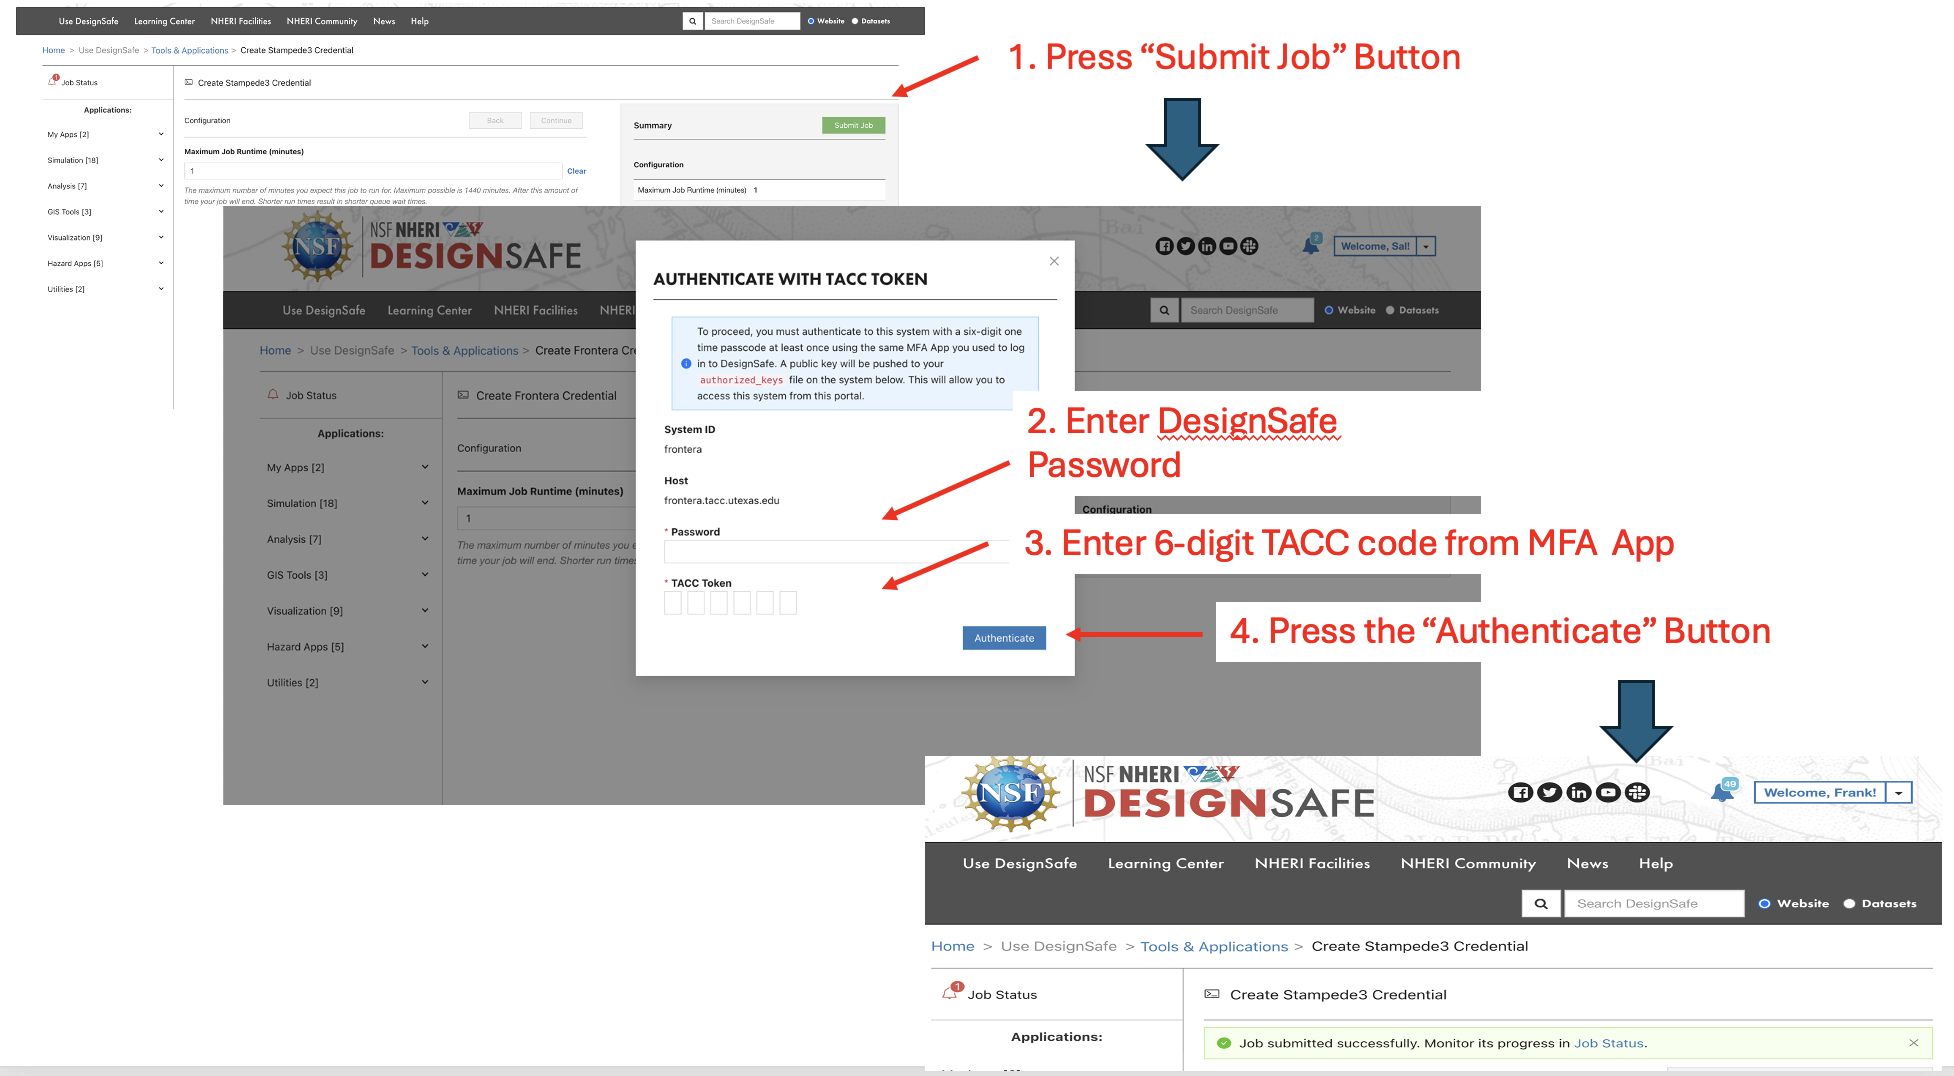
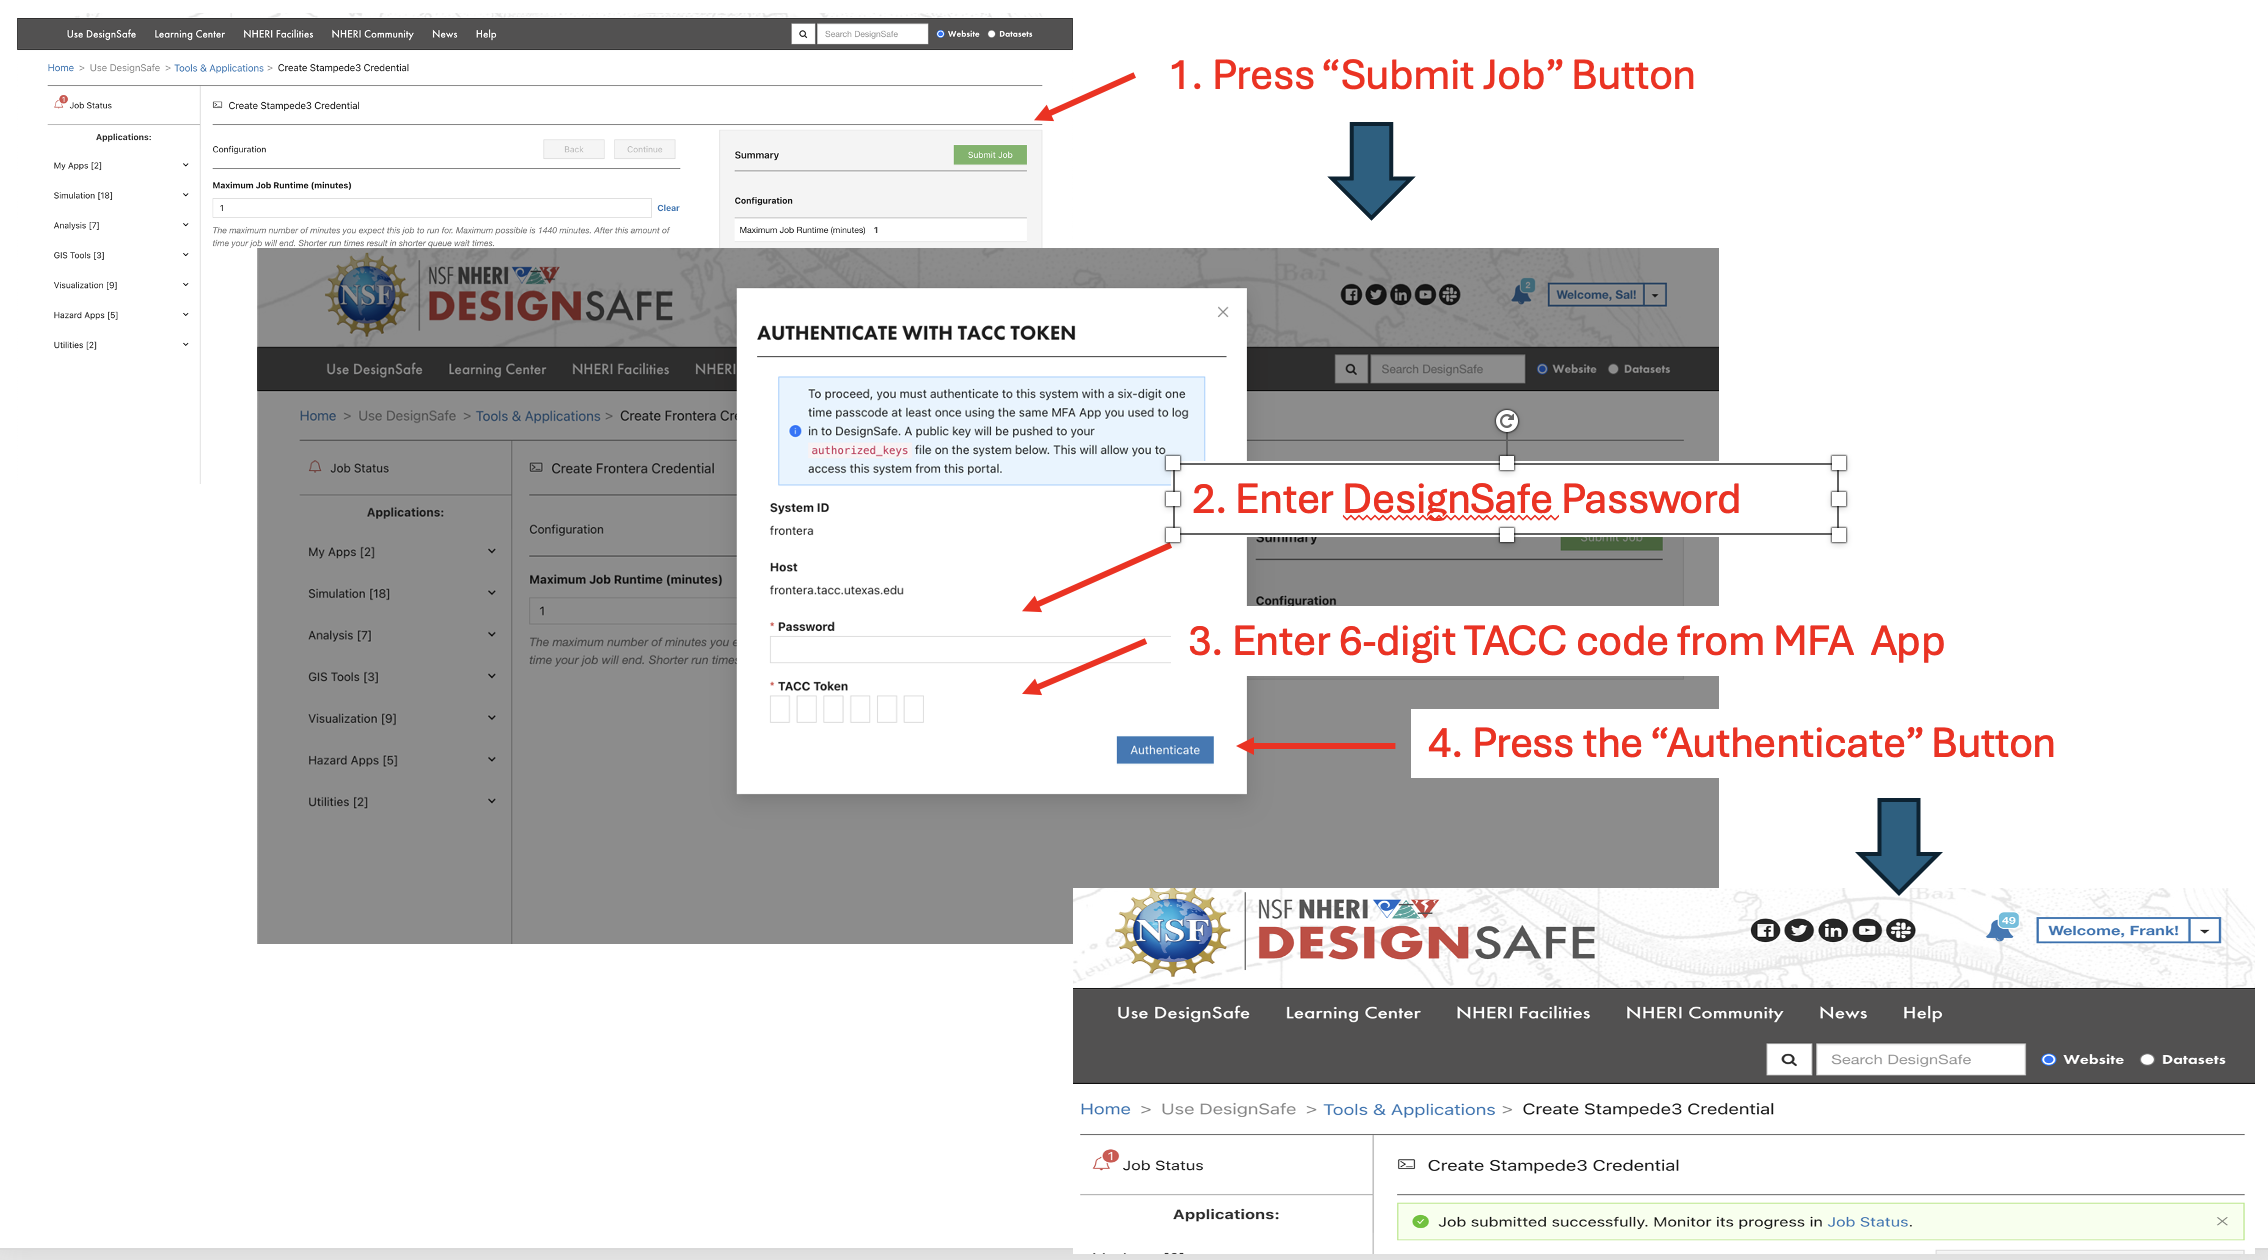
fmk - fixing figure and link in tacc setup

diff --git a/docs/common/user_manual/installation/desktop/setupTACC.rst b/docs/common/user_manual/installation/desktop/setupTACC.rst
@@ -8,7 +8,7 @@ To run jobs on TACC high performance compute resources, the user must obtain an 
 **Allocation**
 ^^^^^^^^^^^^^^
 
-To obtain an allocation, the user can either submit a ticket through `DesignSafe <https://www.designsafe-ci.org/help/new-ticket/>_ requesting an allocation or through `TACC <https://tacc.utexas.edu/use-tacc/allocations/>`_. The **DesignSafe** process is probably quickest and easiest, e.g. a ticket with "Please can I have an allocation to run SimCenter tools on DesignSafe" will be sufficient.
+To obtain an allocation, the user can either submit a ticket through `DesignSafe <https://www.designsafe-ci.org/help/new-ticket/>`_ requesting an allocation or through `TACC <https://tacc.utexas.edu/use-tacc/allocations/>`_. The **DesignSafe** process is probably quickest and easiest, e.g. a ticket with "Please can I have an allocation to run SimCenter tools on DesignSafe" will be sufficient.
 
 **Credentials**
 ^^^^^^^^^^^^^^^
